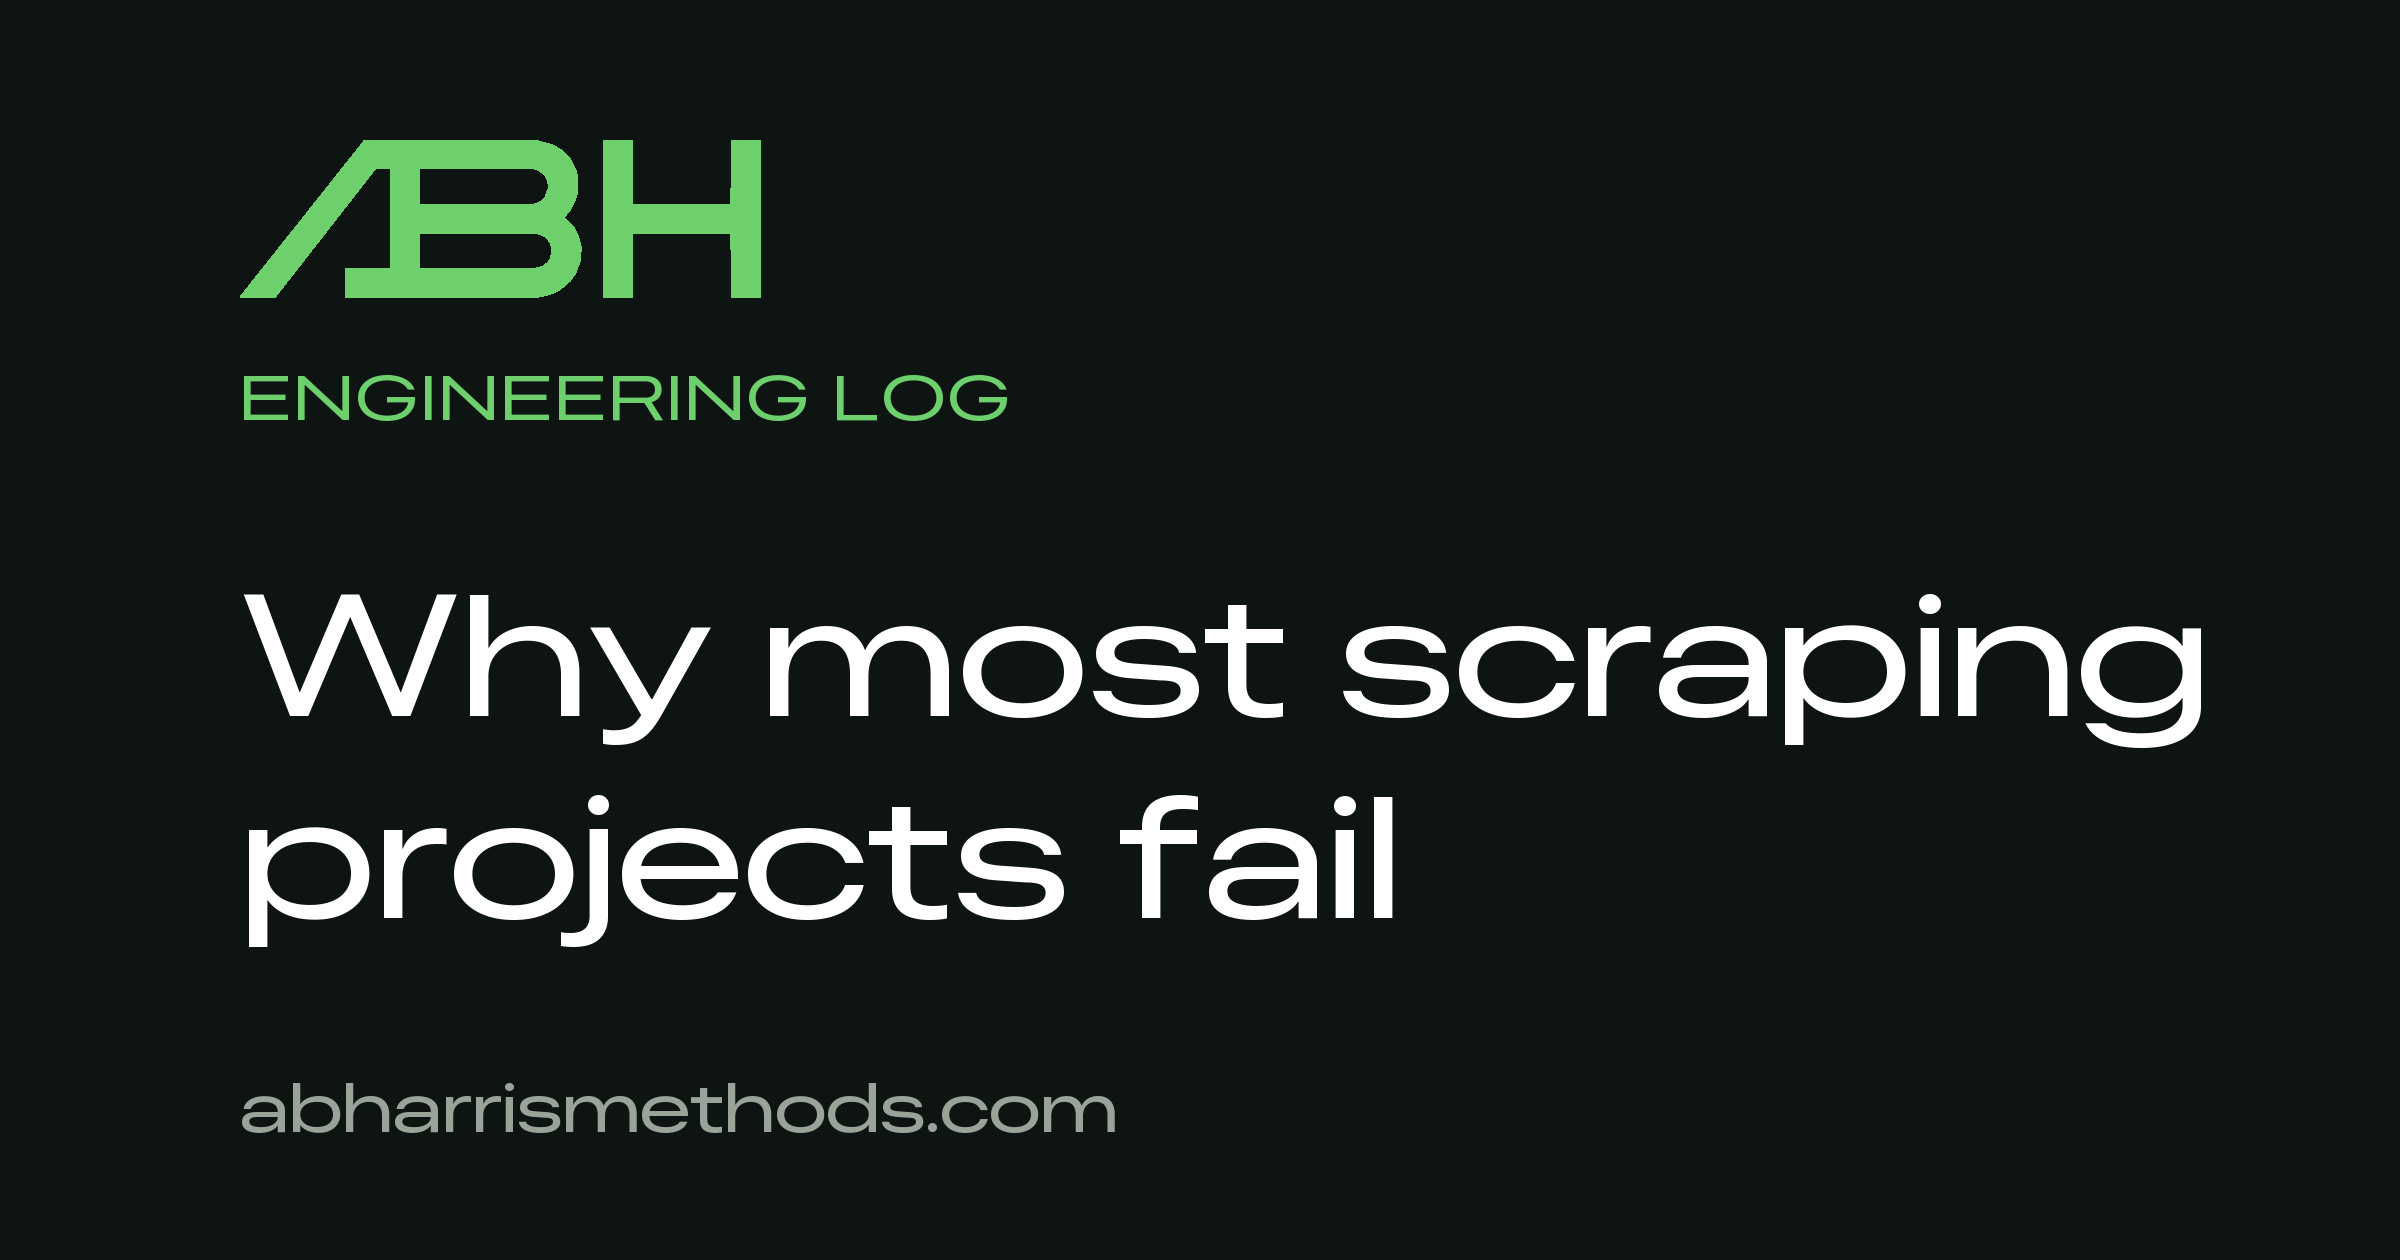
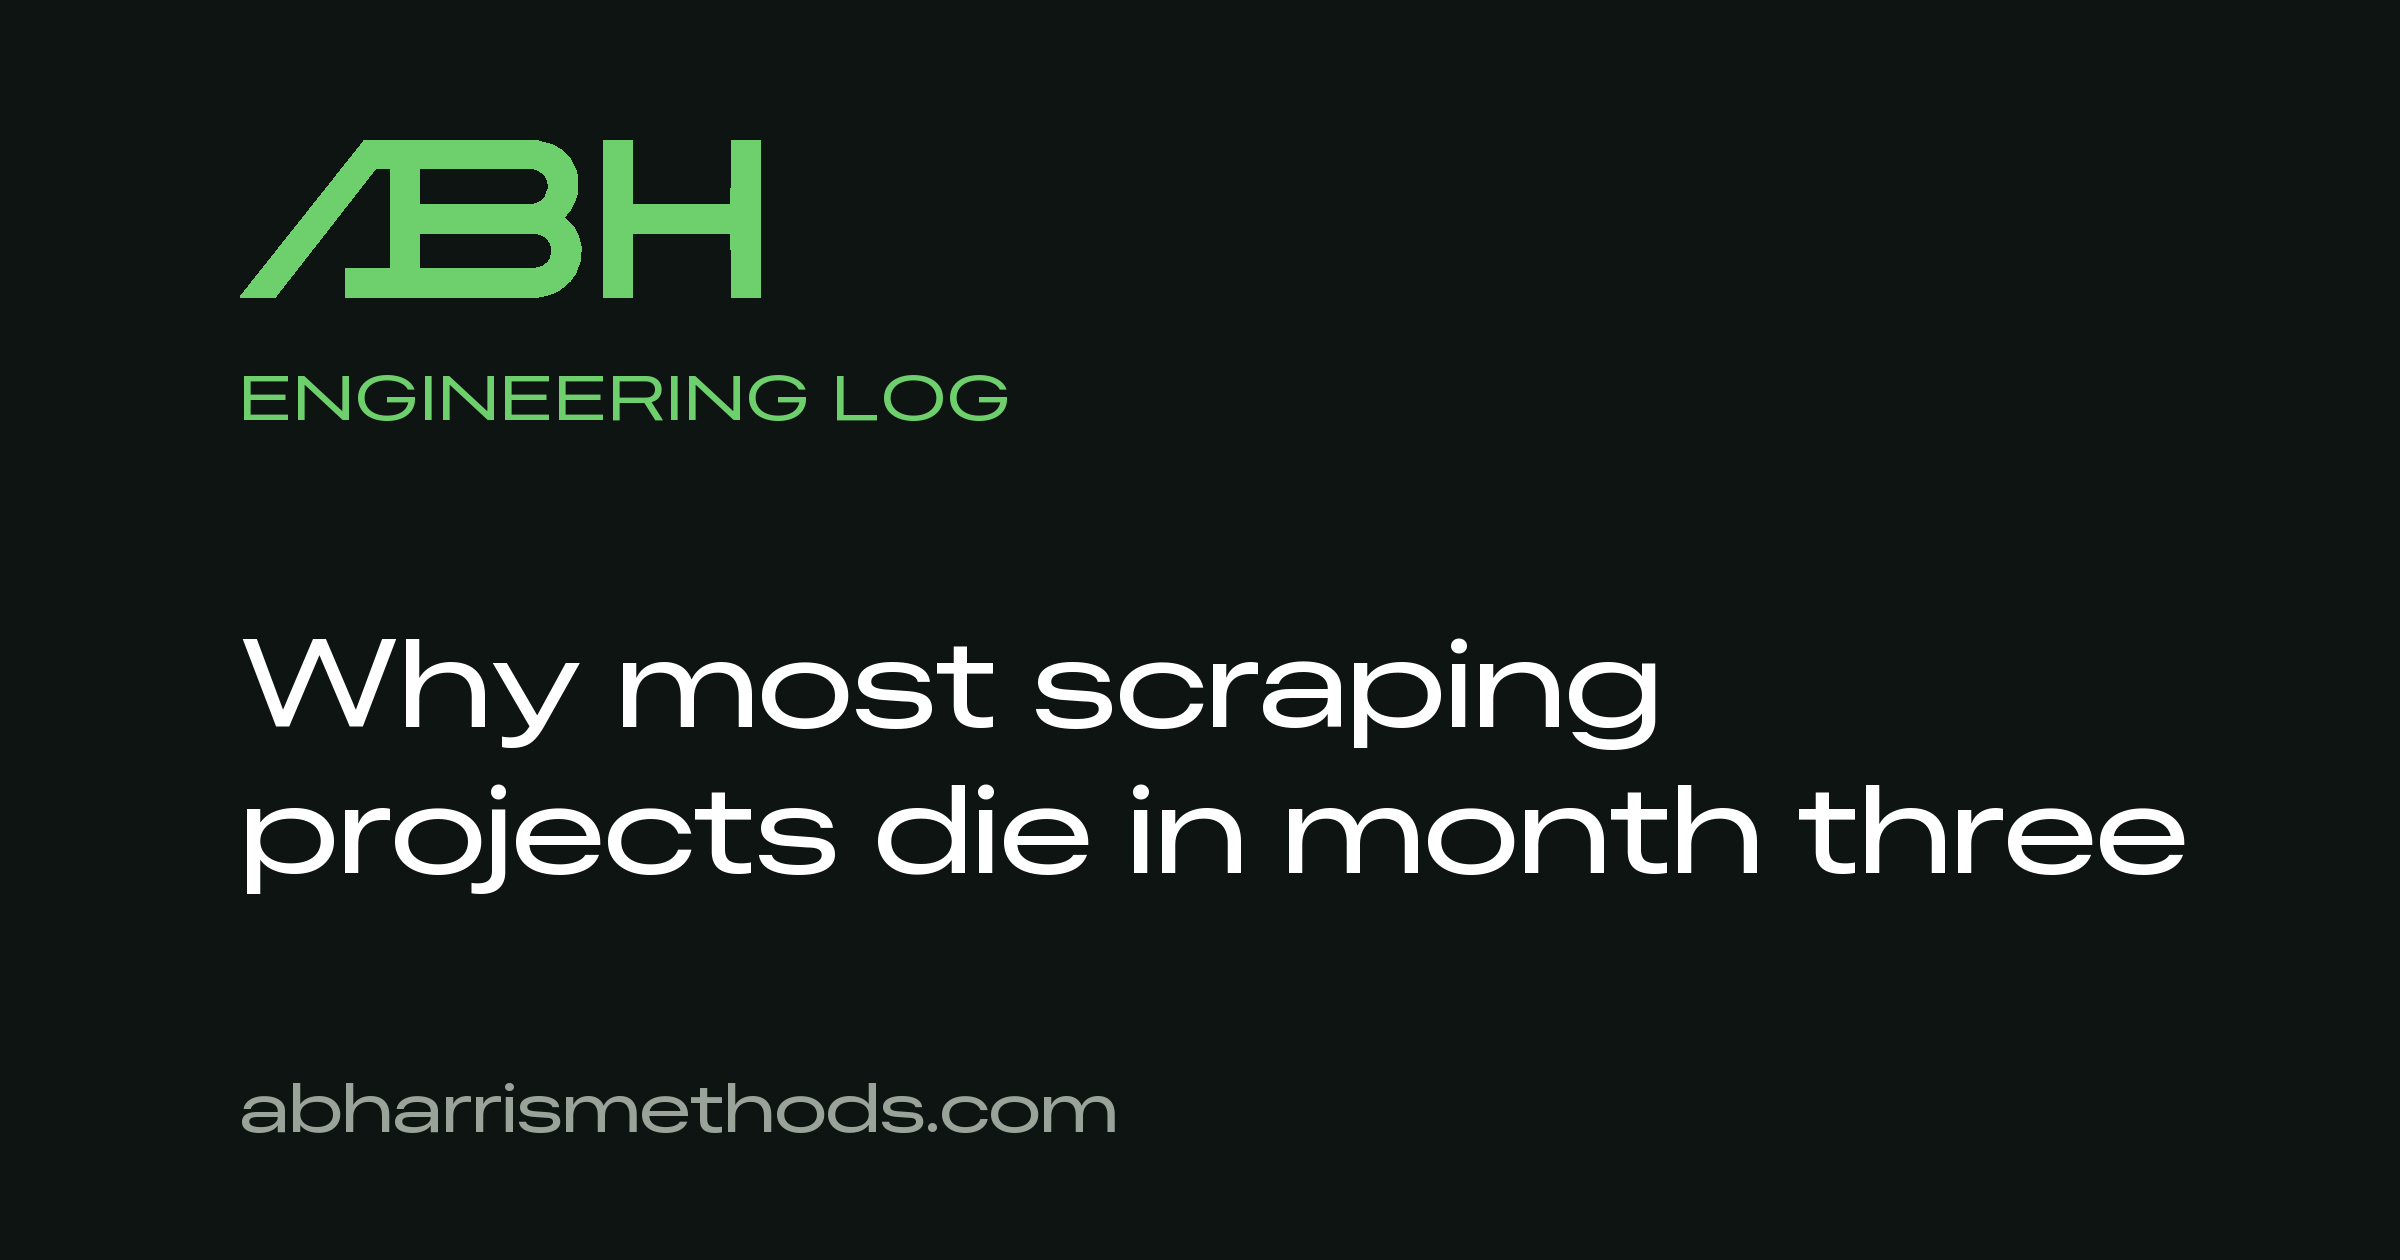
Reframe Log #1 around 'die in month three' angle
- Retitle and rewrite hook to lead with the month-one-to-month-three
  timeline; light humanizer pass (four failure sections unchanged)
- Update page title, meta/OG/Twitter tags, and logs index card
- Regenerate OG share card to match the new title

Changed region(s): [[0.0938, 0.4643, 0.9375, 0.7738]]

diff --git a/log-why-most-scraping-projects-fail.html b/log-why-most-scraping-projects-fail.html
@@ -9,19 +9,19 @@
   <meta name="color-scheme" content="light dark">
   <meta name="theme-color" content="#5cb85c" media="(prefers-color-scheme: light)">
   <meta name="theme-color" content="#0e1411" media="(prefers-color-scheme: dark)">
-  <title>Why most scraping projects fail | Engineering Logs | Andrew Harris</title>
-  <meta name="description" content="The four failure modes I see across audits: source before architecture, cost-per-document never measured, single-trick anti-bot, and scrape-now-structure-later pipelines.">
+  <title>Why most scraping projects die in month three | Engineering Logs | Andrew Harris</title>
+  <meta name="description" content="A scraper that works on a laptop tends to die around month three. The four failure modes I see across audits, and how to catch them in week one.">
   <meta property="og:type" content="article">
   <meta property="og:site_name" content="AB Harris Methods">
-  <meta property="og:title" content="Why most scraping projects fail">
-  <meta property="og:description" content="The four failure modes I see across audits: source before architecture, cost-per-document never measured, single-trick anti-bot, and scrape-now-structure-later pipelines.">
+  <meta property="og:title" content="Why most scraping projects die in month three">
+  <meta property="og:description" content="A scraper that works on a laptop tends to die around month three. The four failure modes I see across audits, and how to catch them in week one.">
   <meta property="og:url" content="https://www.abharrismethods.com/log-why-most-scraping-projects-fail">
   <meta property="og:image" content="https://www.abharrismethods.com/og-log-why-most-scraping-projects-fail-v2.png">
   <meta property="og:image:width" content="2400">
   <meta property="og:image:height" content="1260">
   <meta name="twitter:card" content="summary_large_image">
-  <meta name="twitter:title" content="Why most scraping projects fail">
-  <meta name="twitter:description" content="The four failure modes I see across audits: source before architecture, cost-per-document never measured, single-trick anti-bot, and scrape-now-structure-later pipelines.">
+  <meta name="twitter:title" content="Why most scraping projects die in month three">
+  <meta name="twitter:description" content="A scraper that works on a laptop tends to die around month three. The four failure modes I see across audits, and how to catch them in week one.">
   <meta name="twitter:image" content="https://www.abharrismethods.com/og-log-why-most-scraping-projects-fail-v2.png">
   <link rel="preconnect" href="https://fonts.googleapis.com">
   <link rel="preconnect" href="https://fonts.gstatic.com" crossorigin>
@@ -47,16 +47,18 @@
 
   <article class="log-article">
     <div class="offer-eyebrow">Engineering Log #1</div>
-    <h1 class="offer-title">Why most scraping projects fail</h1>
+    <h1 class="offer-title">Why most scraping projects die in month three</h1>
     <p class="log-meta">June 2026 · ~6 min read</p>
 
     <div class="log-body">
-      <p>Most scraping projects don't fail because the target site was too hard. They fail months earlier, in decisions nobody wrote down. By the time someone calls me, the crawler is the symptom, not the disease.</p>
+      <p>The scraper works on the laptop. It pulls a few thousand records. Everyone's happy. That's month one.</p>
 
-      <p>I've seen the same four failures over and over, across a decade of running acquisition at ZoomInfo and now in audits. None of them are exotic. That's the frustrating part.</p>
+      <p>Month three is when it dies, and almost never because the target site got harder. It dies on decisions nobody wrote down back when the thing looked like it worked. By the time someone calls me, the broken crawler is the symptom, not the disease.</p>
+
+      <p>I've seen the same four failures over and over, across a decade of running acquisition at ZoomInfo and now in audits. None of them are exotic. That's the frustrating part. They're all avoidable, and they all stay invisible right up until the month the project falls over.</p>
 
       <h2>They picked the source before they picked the architecture</h2>
-      <p>Someone in a meeting says "we need LinkedIn data" or "we need every law firm in the country," and an engineer goes off to scrape that specific thing. The scraper works on a laptop. It pulls a few thousand records. Everyone's happy.</p>
+      <p>It starts in a meeting. Someone says "we need LinkedIn data" or "we need every law firm in the country," and an engineer goes off to scrape that one specific thing. The source got picked before anyone asked what shape the system around it needs to be.</p>
       <p>Then the requirements show up that were always going to show up. Refresh it weekly. Dedup against what we already have. Handle the company that changed its name. Track when a field goes from populated to empty, because that turns out to be the signal the product actually sells.</p>
       <p>A scraper isn't an architecture. The architecture is the scheduling, the dedup keys, the change detection, the way you store raw payloads so you can re-parse them when the schema shifts. If you build the scraper first and bolt those on later, you rebuild the scraper. I've watched teams do this three times for the same source before someone asks why.</p>
       <p><strong>Decide how you'll know a record changed before you write a single line that fetches one.</strong></p>
@@ -78,7 +80,7 @@
 
       <h2>The pattern under the pattern</h2>
       <p>Every one of these is the same mistake wearing a different coat: treating acquisition as a script you write once instead of a system you operate. Scripts are cheap and they rot. Systems cost more up front and they compound.</p>
-      <p>The good news is that the failures are predictable, which means they're catchable before you've spent two quarters and a headcount finding out the hard way. That's most of what an audit is. I look at the four things above, in that order, and tell you which one is going to bite you. Usually you already suspect which one. You just haven't had a reason to say it out loud.</p>
+      <p>The good news is that the failures are predictable, which means they're catchable in week one instead of month three, before you've spent two quarters and a headcount finding out the hard way. That's most of what an audit is. I look at the four things above, in that order, and tell you which one is going to bite you. Usually you already suspect which one. You just haven't had a reason to say it out loud.</p>
     </div>
 
     <div class="log-cta">

diff --git a/logs.html b/logs.html
@@ -76,9 +76,9 @@
       <a class="experience-card services-card log-index-card" href="log-why-most-scraping-projects-fail">
         <div class="tier-header">
           <div class="tier-eyebrow">Log #1</div>
-          <h3 class="tier-title">Why most scraping projects fail</h3>
+          <h3 class="tier-title">Why most scraping projects die in month three</h3>
         </div>
-        <p>The recurring failure modes I see across audits: source choice before architecture, cost-per-document never measured, anti-bot strategy that can't survive a single vendor change, and "scrape now, structure later" pipelines that never get structured. A field guide based on a decade of production systems.</p>
+        <p>The scraper works on a laptop in month one. Month three is when it dies, and almost never because the site got harder. The four failure modes I see across audits: source choice before architecture, cost-per-document never measured, anti-bot strategy that can't survive a single vendor change, and "scrape now, structure later" pipelines that never get structured. A field guide based on a decade of production systems.</p>
         <div class="log-index-meta"><span>~6 min read</span> · <span class="log-index-readmore">Read &rarr;</span></div>
       </a>
 